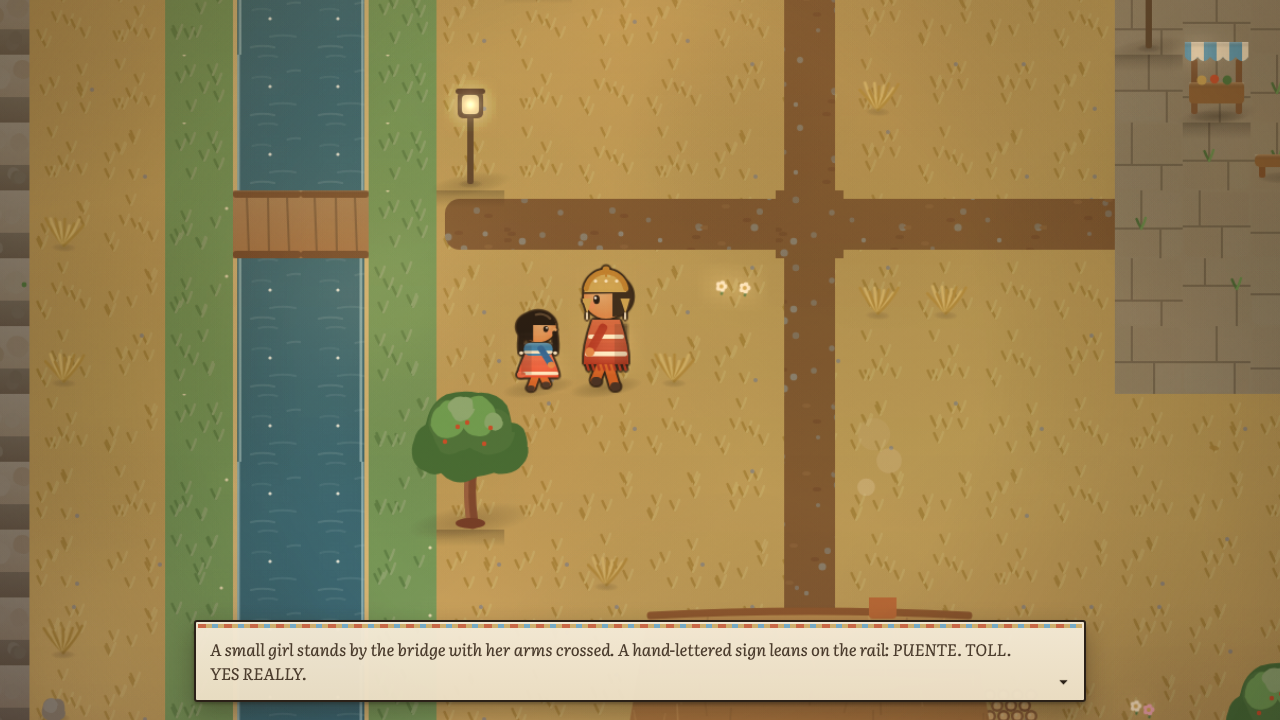
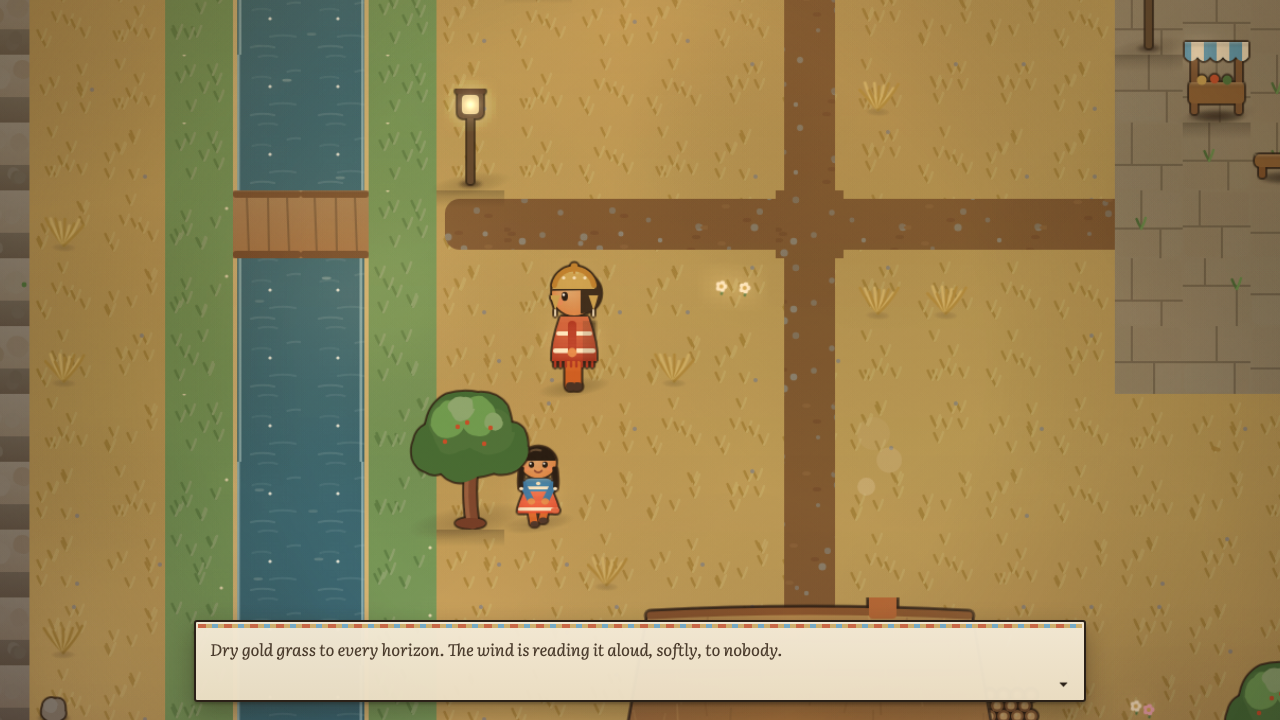
Living-world pass: inked buildings and props with one shared sun, breathing shoreline foam and sun glints on water, warm pooled interior light, swaying papel picado

diff --git a/src/engine/renderer.ts b/src/engine/renderer.ts
@@ -139,6 +139,10 @@ export class Renderer {
     // breathes without any per-tile seams.
     this.groundTint(map, cam, x0, y0, x1, y1);
 
+    // Pass 1b2: the water is alive. Sun glints ride the swell by day, and a
+    // breathing line of foam works every edge where the sea meets land.
+    this.drawWaterLife(map, cam, x0, y0, x1, y1, kindAt);
+
     // Pass 1c: cast shade and walkable decor.
     for (let cy = y0; cy <= y1; cy++) {
       for (let cx = x0; cx <= x1; cx++) {
@@ -181,8 +185,9 @@ export class Renderer {
         draw: () => {
           const tx = (t.cx * TILE - cam.x) * A;
           const ty = (t.cy * TILE - cam.y) * A;
-          // Trees and freestanding props cast into the same sun as people.
+          // Trees, props, and whole buildings cast into the same sun as people.
           if (t.kind === 'tree' || t.kind === 'palm') this.castShadow(tx + S / 2, ty + S - 8, 52, 0.2);
+          else if (this.tiles.isBuilding(t.kind)) this.castShadow(tx + S * 2.2, ty + S - 4, 120, 0.16);
           else if (this.tiles.castsSun(t.kind)) this.castShadow(tx + S / 2, ty + S - 6, 34, 0.18);
           this.tiles.drawTall(ctx, t.kind, tx, ty, t.cx, t.cy);
         },
@@ -255,6 +260,92 @@ export class Renderer {
     };
     octave(9, 131, 5.5, 4.5, 1); // the meadow-scale washes
     octave(4, 101, 2.2, 2.4, 0.9); // the close-up dapple
+  }
+
+  private drawWaterLife(
+    _map: TileMap,
+    cam: Camera,
+    x0: number,
+    y0: number,
+    x1: number,
+    y1: number,
+    kindAt: (x: number, y: number) => string,
+  ) {
+    const ctx = this.ctx;
+    const dayK = 1 - this.nightK;
+    const watery = (k: string) => k === 'sea' || k === 'water';
+    for (let cy = y0; cy <= y1; cy++) {
+      for (let cx = x0; cx <= x1; cx++) {
+        const kind = kindAt(cx, cy);
+        if (!watery(kind)) continue;
+        const sx = (cx * TILE - cam.x) * A;
+        const sy = (cy * TILE - cam.y) * A;
+
+        // Glints: two per tile, pulsing out of phase, gone after dark.
+        if (dayK > 0.25) {
+          for (let i = 0; i < 2; i++) {
+            const h = cellHash(cx, cy, 300 + i * 17);
+            const pulse = Math.sin(this.time * (1.1 + h) + h * 40);
+            if (pulse < 0.55) continue;
+            const a = (pulse - 0.55) * 1.6 * dayK * (kind === 'sea' ? 0.55 : 0.4);
+            const gx = sx + 8 + h * (S - 16);
+            const gy = sy + 8 + cellHash(cx, cy, 350 + i * 13) * (S - 16);
+            ctx.save();
+            ctx.globalAlpha = a;
+            ctx.fillStyle = '#f2f8f4';
+            ctx.beginPath();
+            ctx.ellipse(gx, gy, 4.5, 1.4, 0, 0, Math.PI * 2);
+            ctx.fill();
+            ctx.restore();
+          }
+        }
+
+        // Foam: only the sea works its shoreline this hard.
+        if (kind !== 'sea') continue;
+        const edges: [number, number, boolean][] = [
+          [0, -1, true], // land to the north: foam along the top edge
+          [-1, 0, false], // land west: along the left edge
+          [1, 0, false], // land east: along the right edge
+        ];
+        for (const [dx, dy, horizontal] of edges) {
+          const nk = kindAt(cx + dx, cy + dy);
+          if (watery(nk) || nk === 'void' || nk === 'scree') continue;
+          const breathe = Math.sin(this.time * 1.4 + cx * 0.7 + cy * 0.4) * 2.2;
+          ctx.save();
+          ctx.strokeStyle = 'rgba(240,248,244,0.5)';
+          ctx.lineWidth = 3;
+          ctx.lineCap = 'round';
+          ctx.beginPath();
+          if (horizontal) {
+            const fy = sy + 3 + Math.max(0, breathe);
+            ctx.moveTo(sx + 2, fy);
+            ctx.quadraticCurveTo(sx + S * 0.3, fy + 2.5, sx + S * 0.55, fy);
+            ctx.quadraticCurveTo(sx + S * 0.8, fy - 2, sx + S - 2, fy + 1);
+          } else {
+            const fx = dx < 0 ? sx + 3 + Math.max(0, breathe) : sx + S - 3 - Math.max(0, breathe);
+            ctx.moveTo(fx, sy + 2);
+            ctx.quadraticCurveTo(fx + (dx < 0 ? 2.5 : -2.5), sy + S * 0.4, fx, sy + S * 0.7);
+            ctx.quadraticCurveTo(fx + (dx < 0 ? -2 : 2), sy + S * 0.85, fx + 1, sy + S - 2);
+          }
+          ctx.stroke();
+          // A fainter second line, lagging: the last wave still draining.
+          ctx.globalAlpha = 0.3;
+          ctx.lineWidth = 2;
+          ctx.beginPath();
+          if (horizontal) {
+            const fy2 = sy + 9 + Math.max(0, -breathe);
+            ctx.moveTo(sx + 4, fy2);
+            ctx.quadraticCurveTo(sx + S * 0.5, fy2 + 2, sx + S - 4, fy2 - 1);
+          } else {
+            const fx2 = dx < 0 ? sx + 10 : sx + S - 10;
+            ctx.moveTo(fx2, sy + 6);
+            ctx.quadraticCurveTo(fx2 + (dx < 0 ? 2 : -2), sy + S * 0.5, fx2, sy + S - 6);
+          }
+          ctx.stroke();
+          ctx.restore();
+        }
+      }
+    }
   }
 
   /**

diff --git a/src/art/tiles.ts b/src/art/tiles.ts
@@ -1,5 +1,5 @@
 import { ART, PAL, TILE } from '../engine/config';
-import { Rng, blob, cellHash, dot, glowSpot, mute, oval, rect, rr, shade, softShadow, surface, vgrad } from './pix';
+import { Rng, blob, cellHash, dot, glowSpot, mute, outlineSheet, oval, rect, rr, shade, softShadow, surface, vgrad } from './pix';
 import { ART_SETS } from './sets';
 
 /**
@@ -19,6 +19,9 @@ export const PATHY = new Set(['path', 'plaza', 'bridge', 'dirt', 'pierdeck']);
 const BUILDINGS = new Set(['house', 'casa']);
 
 export type Conn = (dx: number, dy: number) => boolean;
+
+/** Soft ground decor that should melt into the earth, never be cut out. */
+const NO_INK = new Set(['rug', 'mat', 'petalpath', 'tuft', 'flower', 'gateOpen', 'cuy', 'mwanirow', 'clovemat']);
 
 /** Freestanding tall things that sit on a soft cast shadow. */
 const GROUNDED_TALL = new Set([
@@ -1388,6 +1391,38 @@ export class Tileset {
     g.drawImage(this.variant(kind, cx, cy), sx, sy);
   }
 
+  /**
+   * The cut-paper pass for props: every object gets the same soft ink edge
+   * the characters wear, and buildings additionally take the sun on one side.
+   * Cached per source canvas; costs nothing after the first frame each.
+   */
+  private inkCache = new Map<HTMLCanvasElement, HTMLCanvasElement>();
+  private inked(cvs: HTMLCanvasElement, kind: string): HTMLCanvasElement {
+    if (NO_INK.has(kind)) return cvs;
+    let out = this.inkCache.get(cvs);
+    if (!out) {
+      const building = BUILDINGS.has(kind);
+      out = outlineSheet(cvs, cvs.width, cvs.height, 'rgba(38,26,16,0.5)', building ? 3 : 2);
+      if (building) {
+        // One sun for everyone: shade gathers left, light rests on the right.
+        const g = out.getContext('2d');
+        if (g) {
+          g.save();
+          g.globalCompositeOperation = 'source-atop';
+          const grad = g.createLinearGradient(0, 0, out.width, 0);
+          grad.addColorStop(0, 'rgba(44,30,54,0.12)');
+          grad.addColorStop(0.45, 'rgba(0,0,0,0)');
+          grad.addColorStop(1, 'rgba(255,238,196,0.10)');
+          g.fillStyle = grad;
+          g.fillRect(0, 0, out.width, out.height);
+          g.restore();
+        }
+      }
+      this.inkCache.set(cvs, out);
+    }
+    return out;
+  }
+
   /** Walkable decoration drawn between ground and the depth-sorted pass. */
   drawFlat(
     g: CanvasRenderingContext2D,
@@ -1398,7 +1433,7 @@ export class Tileset {
     cy: number,
     time: number,
   ) {
-    if (kind === 'tuft' || kind === 'flower') {
+    if (kind === 'tuft' || kind === 'flower' || kind === 'papel') {
       const sway = Math.sin(time * 2.1 - cx * 0.45 - cy * 0.18 + cellHash(cx, cy, 9) * 0.9) * 2.5;
       g.save();
       g.translate(sx + S / 2, sy + S);
@@ -1413,7 +1448,7 @@ export class Tileset {
       g.drawImage(this.variant(kind, cx, cy), sx, sy + hop);
       return;
     }
-    g.drawImage(this.variant(kind, cx, cy), sx, sy);
+    g.drawImage(this.inked(this.variant(kind, cx, cy), kind), sx, sy);
     if (kind === 'campfire' || kind === 'qoncha') {
       // A living flame: layered teardrops that flicker.
       const fx = sx + S / 2;
@@ -1439,8 +1474,13 @@ export class Tileset {
     return GROUNDED_TALL.has(ART_ALIAS[kind] ?? kind) || GROUNDED_TALL.has(kind);
   }
 
+  /** Whether a kind is a full building sprite (for the renderer's big shadow). */
+  isBuilding(kind: string): boolean {
+    return BUILDINGS.has(kind);
+  }
+
   drawTall(g: CanvasRenderingContext2D, kind: string, sx: number, sy: number, cx: number, cy: number) {
-    const cvs = this.variant(kind, cx, cy);
+    const cvs = this.inked(this.variant(kind, cx, cy), kind);
     const building = BUILDINGS.has(kind);
     const ox = building ? ART * 4 : Math.floor((cvs.width - S) / 2);
     const oy = cvs.height - S;

diff --git a/src/main.ts b/src/main.ts
@@ -126,7 +126,7 @@ const AMBIENT: Record<string, number> = {
   warm: 0xfdf6ea,
   cool: 0xe4ecf6,
   dusty: 0xffeed6,
-  interior: 0xbfab96,
+  interior: 0xb0a089,
   garua: 0xdfe3e6,
   glare: 0xffffff,
   ...Object.fromEntries(Object.entries(MOODS).map(([k, v]) => [k, v.ambient])),
@@ -1044,15 +1044,17 @@ function render() {
   // Outdoors they wake with the dusk; interior fires carry the room all day.
   const nk = moodFor(map.id) === 'interior' ? 0 : nightLevel(dayT);
   const outdoorK = moodFor(map.id) === 'interior' ? 1 : 0.25 + 0.75 * Math.min(1, nk * 2);
-  const specs: LightSpec[] = (fireCells[map.id] ?? []).map(([cx, cy, kind]) => {
+  const indoors = moodFor(map.id) === 'interior';
+  const specs: LightSpec[] = (fireCells[map.id] ?? []).flatMap(([cx, cy, kind]) => {
     const def = GLOW_STYLE[kind] ?? { r: 30, color: 0xffb066, flicker: 0.4, lift: 3 };
-    return {
-      x: cx * TILE + TILE / 2 - camera.x,
-      y: cy * TILE + TILE / 2 - def.lift - camera.y,
-      r: def.r * outdoorK,
-      color: def.color,
-      flicker: def.flicker,
-    };
+    const x = cx * TILE + TILE / 2 - camera.x;
+    const y = cy * TILE + TILE / 2 - def.lift - camera.y;
+    const core: LightSpec = { x, y, r: def.r * (indoors ? 1.35 : 1) * outdoorK, color: def.color, flicker: def.flicker };
+    // Indoors, every fire also pools a broad dim warmth across the room, so
+    // the space feels inhabited rather than spot-lit.
+    return indoors
+      ? [core, { x, y: y + 6, r: def.r * 3.2, color: 0x54331c, flicker: 0.08 }]
+      : [core];
   });
   // At dusk the houses light their windows from inside.
   if (nk > 0.3) {
